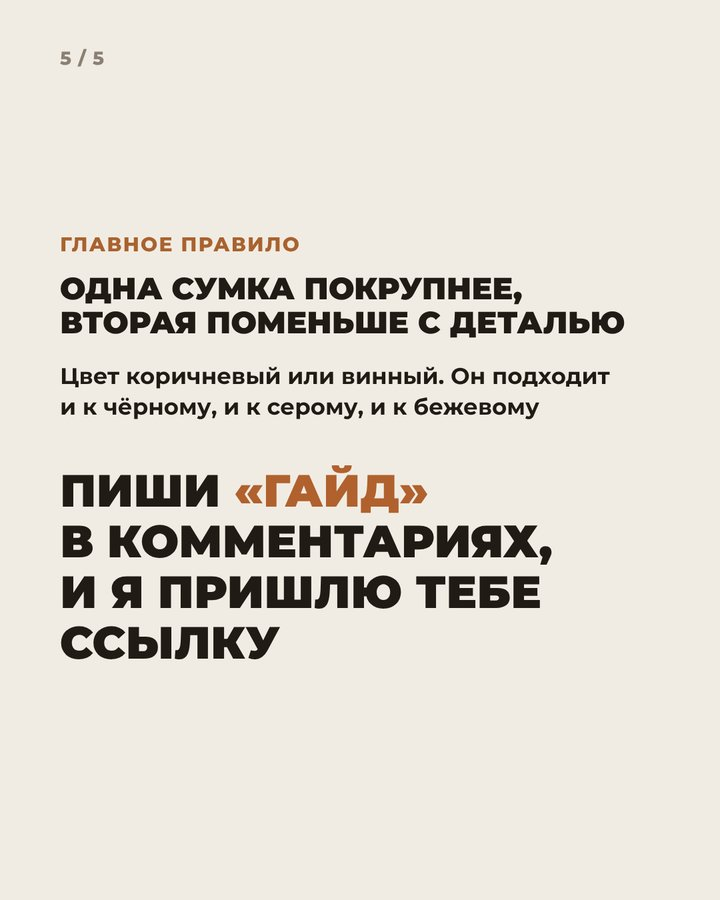
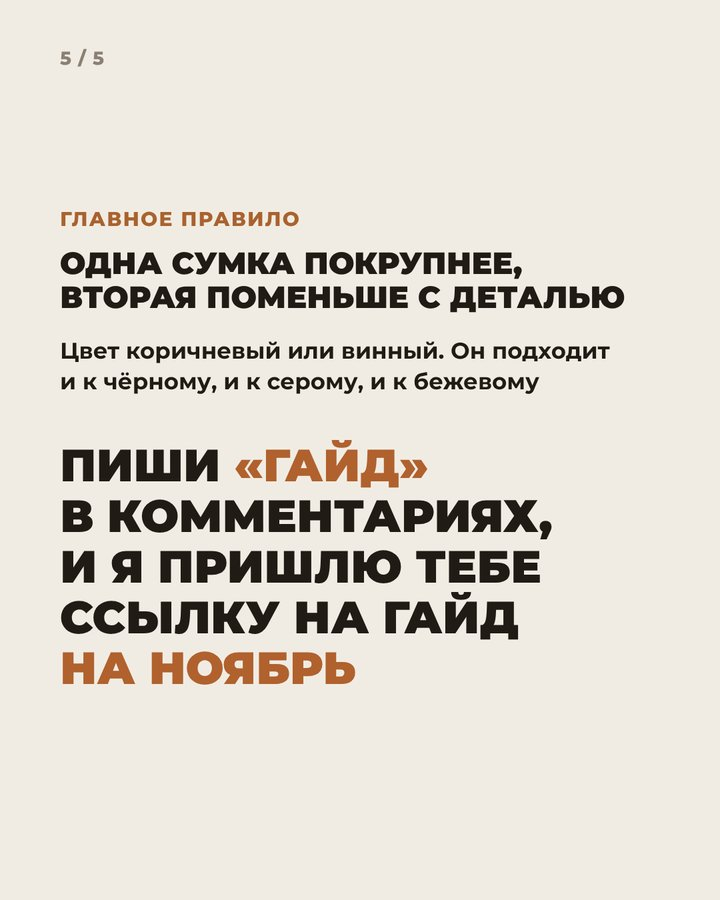
Carousel 11.11: guide for November
Claude-Session: https://claude.ai/code/session_01WfDMDWpCzhvXCNpiNoLDnf

Changed region(s): [[0.0611, 0.2178, 0.8861, 0.7778]]

diff --git a/karusel-dve-sumki/index.html b/karusel-dve-sumki/index.html
@@ -103,7 +103,7 @@ header{display:grid;gap:10px}
       <p>Цвет коричневый или винный. Он подходит и к чёрному, и к серому, и к бежевому, поэтому сумки работают почти с любым образом.</p>
       <p>Сумка 1, покрупнее:<br>Тоут с замком — Befree, 4 599 ₽<br>Большая хобо из замши — Love Republic, 10 999 ₽<br>Сумка с замшевой фактурой — Sela, 4 599 ₽</p>
       <p>Сумка 2, поменьше с деталью:<br>Полумесяц с металлической ручкой — LIME, 7 999 ₽<br>Мини-полумесяц из замши — LIME, 12 999 ₽<br>Сумка-цилиндр с кантом — Love Republic, 3 899 ₽</p>
-      <p>Пиши «ГАЙД» в комментариях, и я пришлю тебе ссылку 🤍</p>
+      <p>Пиши «ГАЙД» в комментариях, и я пришлю тебе ссылку на гайд на ноябрь 🤍</p>
       <p>Фото: сайты магазинов. Цены на 9.11.</p>
       <p>#сумка #базовыйгардероб #стильзимой #капсула #стилист</p>
     </div>
